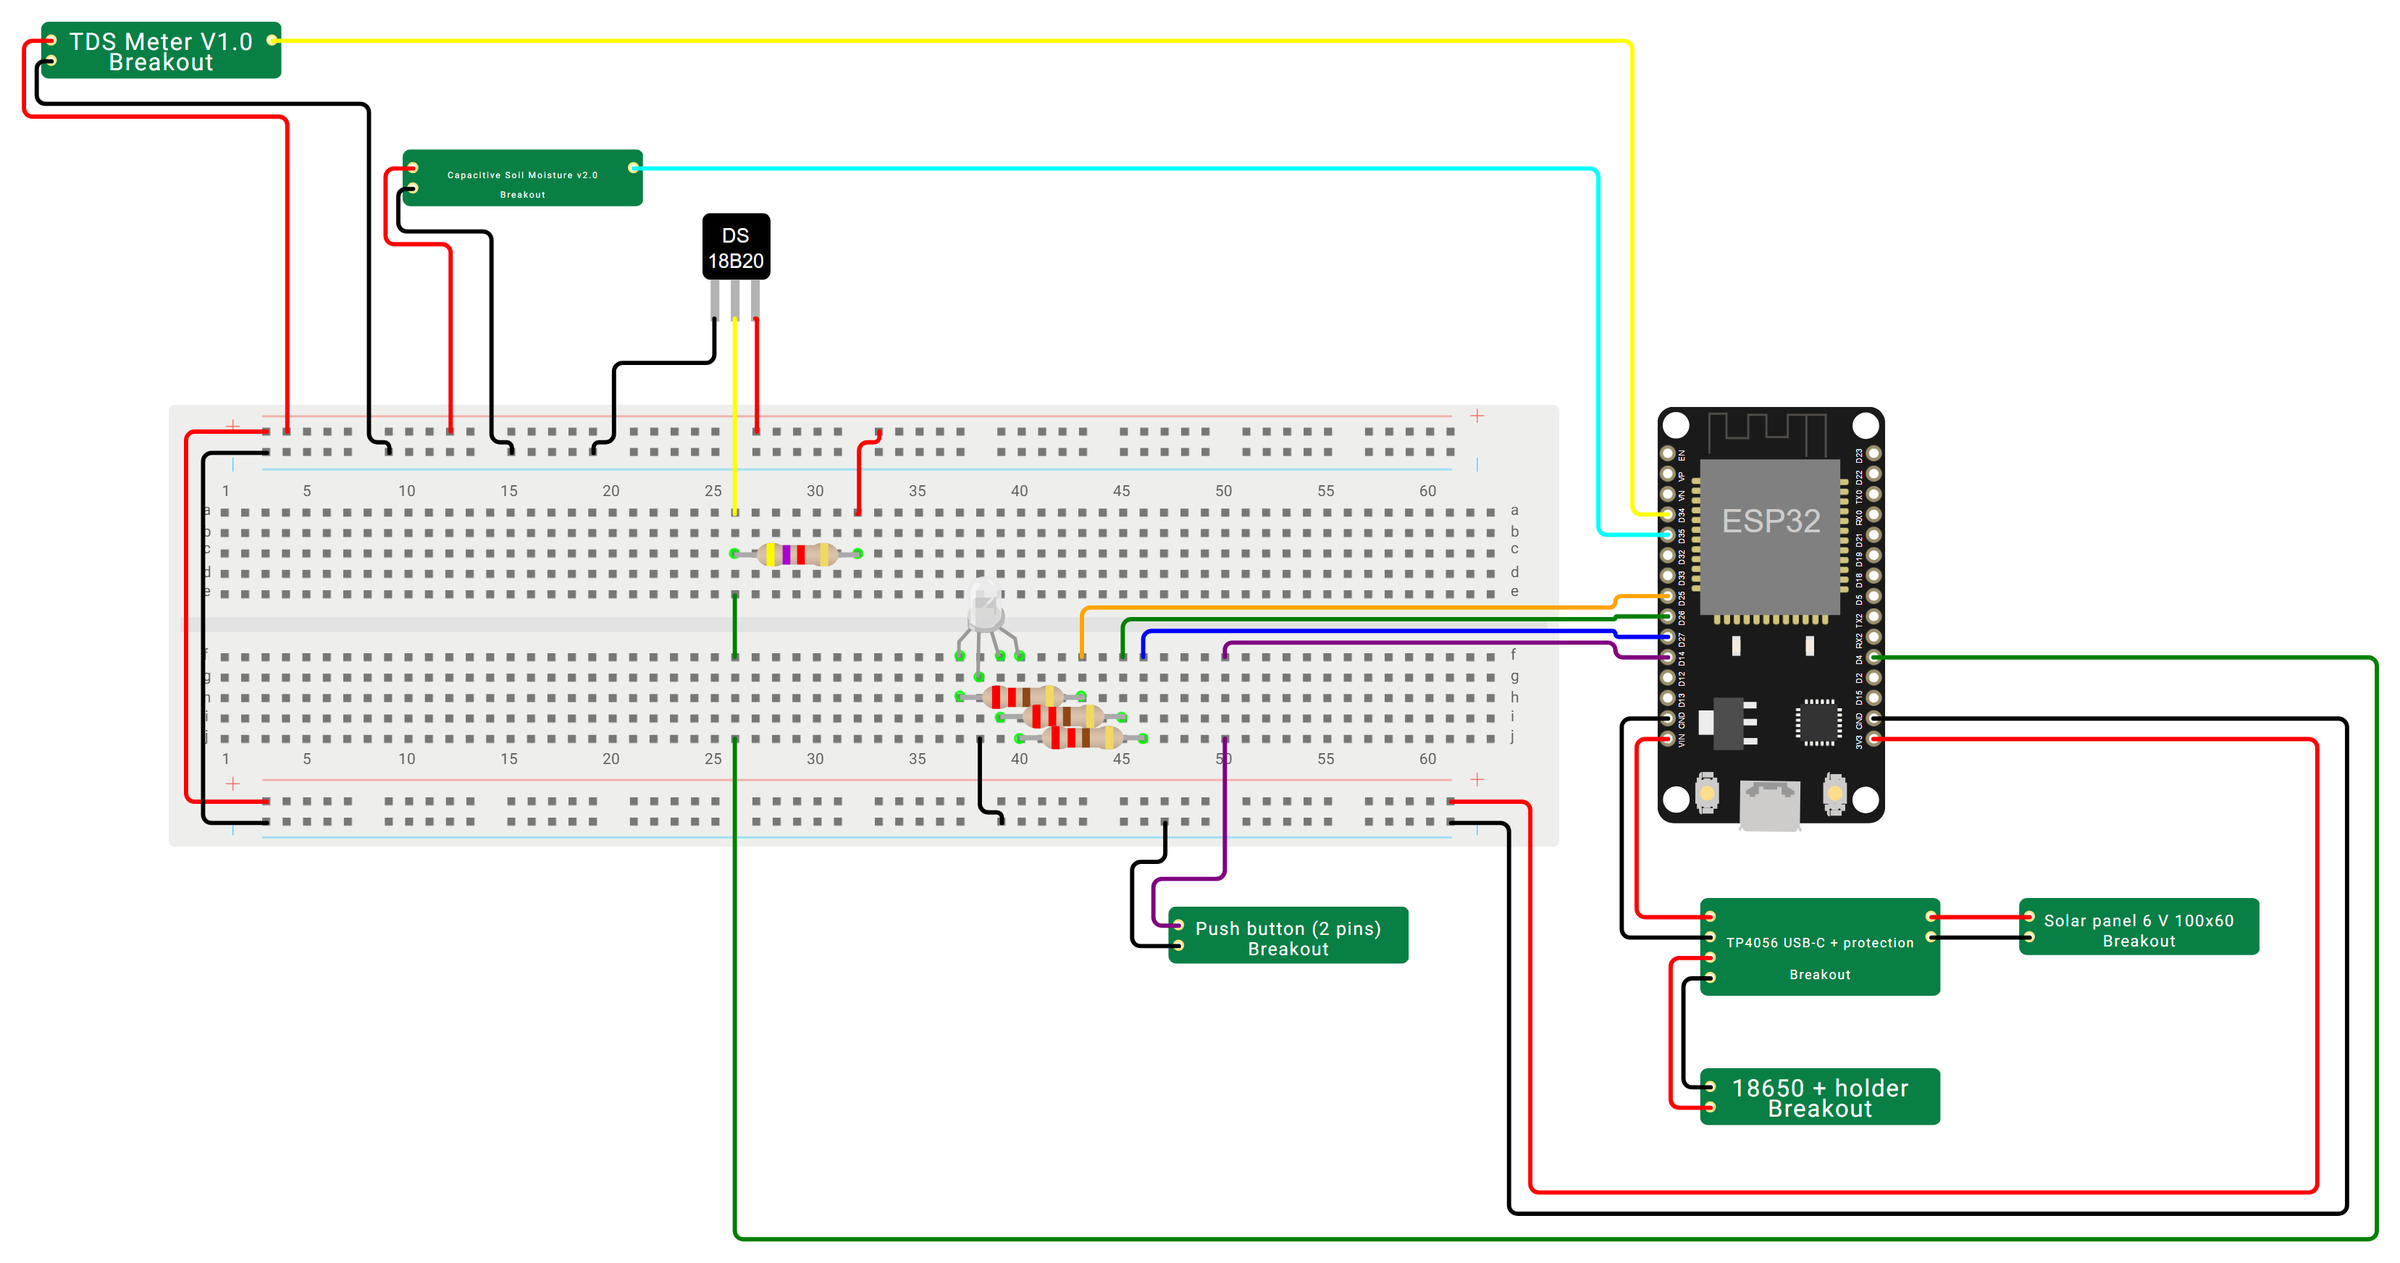
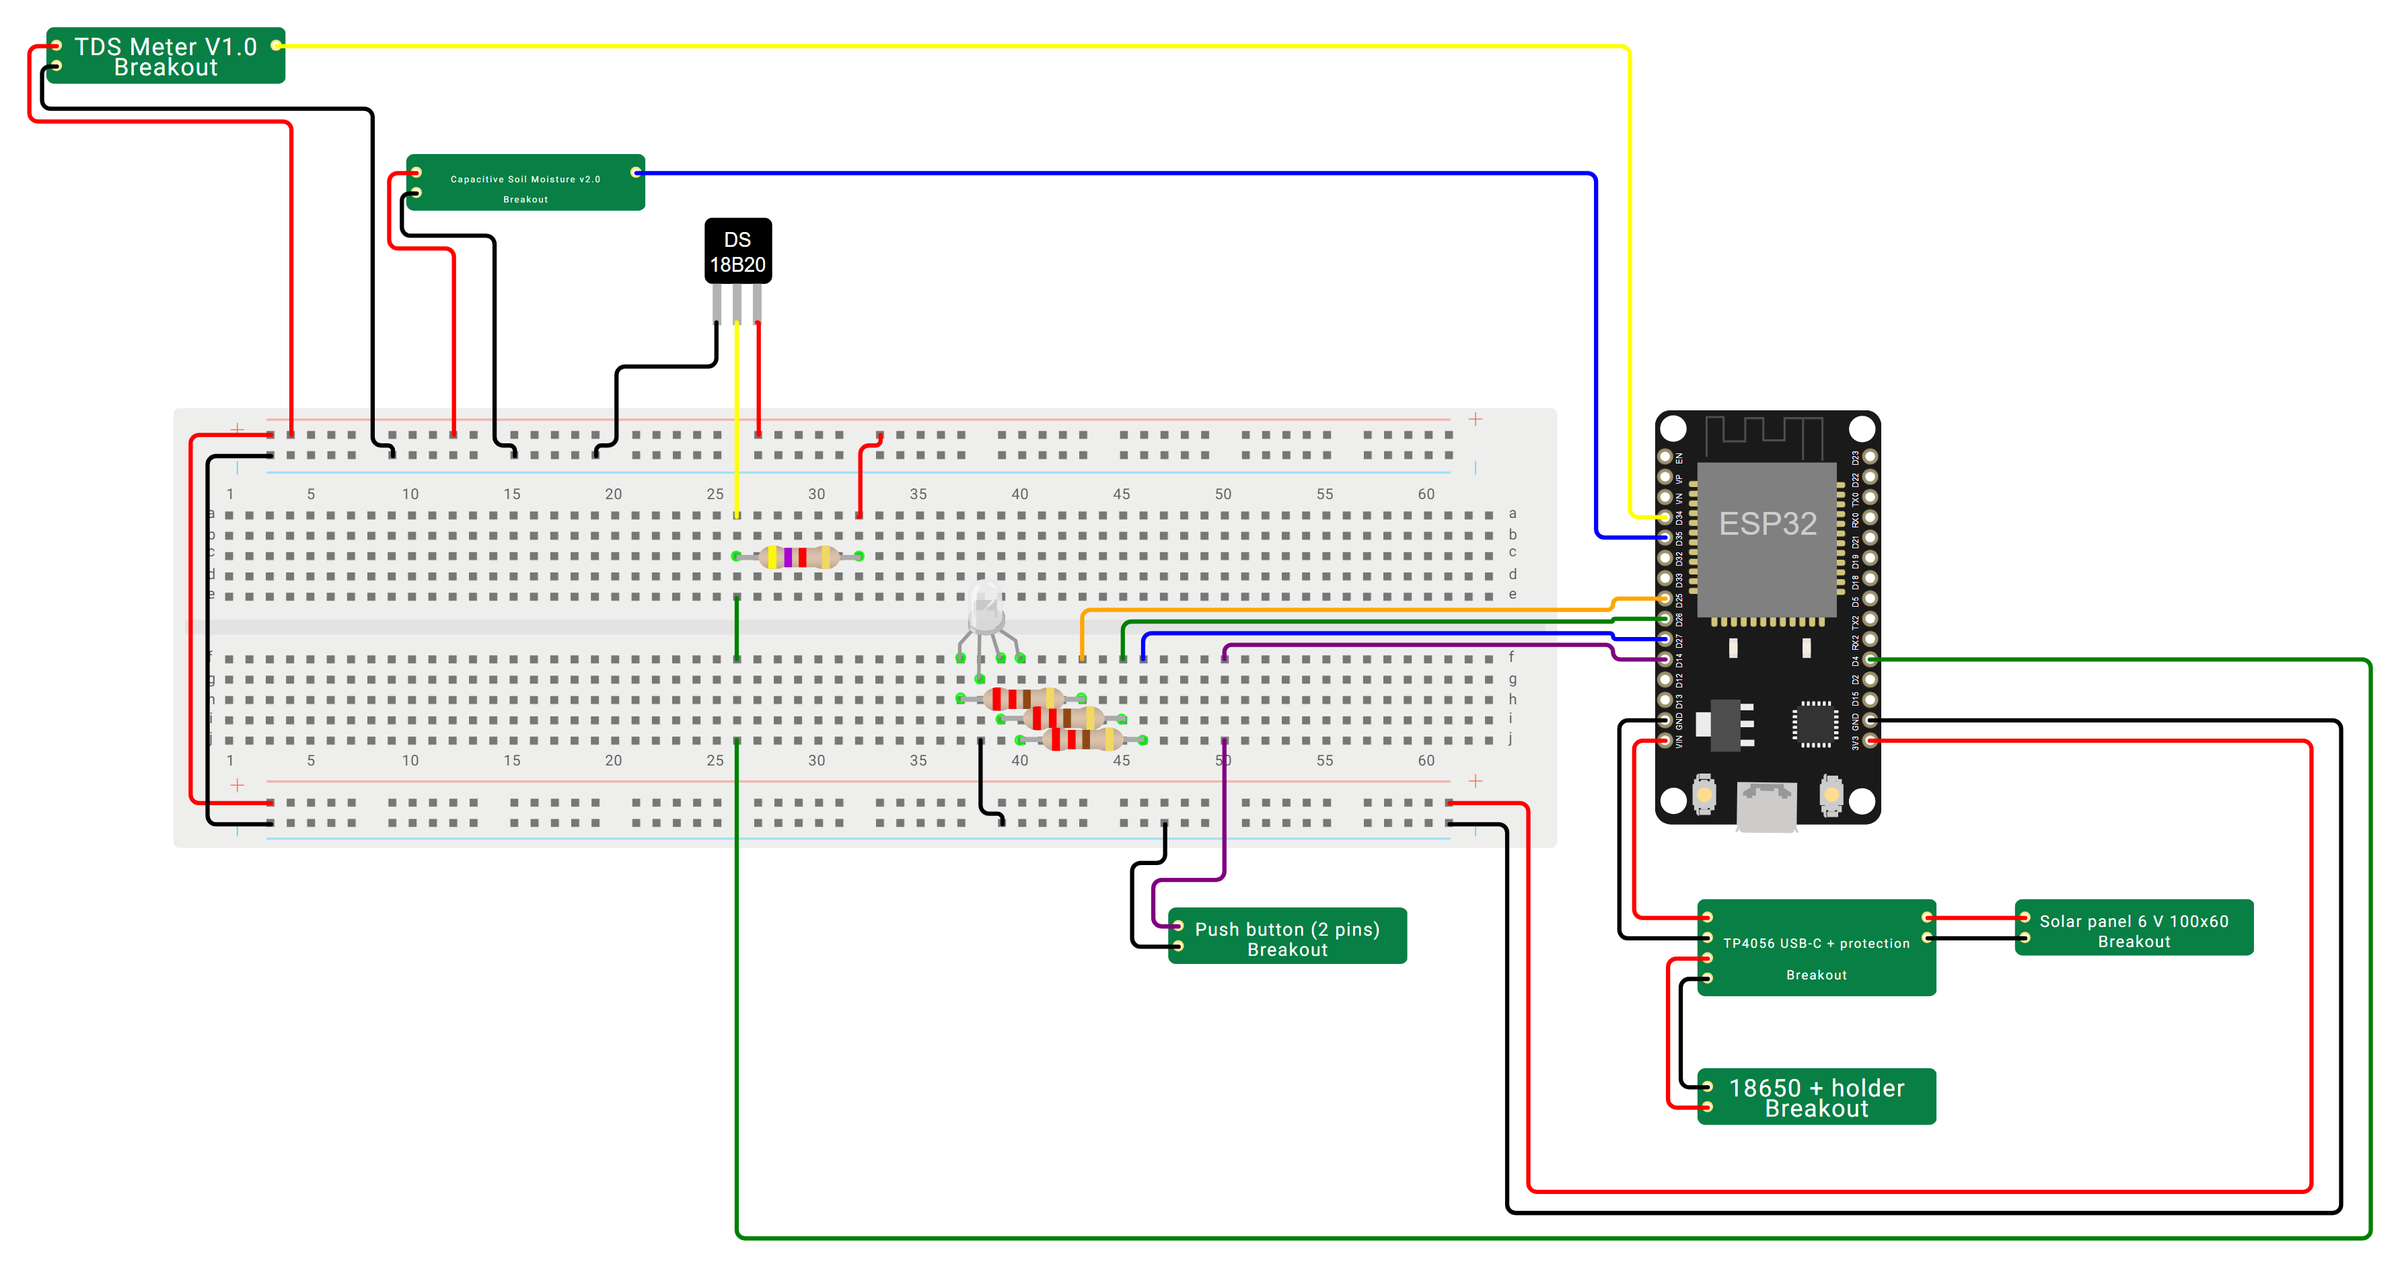
docs(chapter-5): match the wokwi circuit wires to the real assembly

Changed region(s): [[0.0, 0.0, 1.0, 0.9881]]

diff --git a/chapters/chapter5.md b/chapters/chapter5.md
@@ -1346,7 +1346,7 @@ El diagrama de bloques muestra los tres caminos del dispositivo: la **energía**
 
 **Diseño del circuito**
 
-El circuito se elaboró en **Wokwi** con las piezas compradas para el prototipo físico, sobre una protoboard de 830 puntos: ESP32 DevKit V1 (WROOM-32), sensor capacitivo de humedad v2.0, TDS Meter V1.0 con su sonda para la conductividad (medida en el extracto suelo:agua 1:2), sonda DS18B20 sumergible con su resistencia de 4,7 kΩ, LED RGB de cátodo común con tres resistencias de 220 Ω, pulsador de dos patas y la cadena de energía (panel solar de 6 V de 100 × 60 mm, cargador TP4056 con protección y batería 18650 en su porta-batería). Wokwi no trae esos sensores, el pulsador de dos patas ni las piezas de energía, así que se crearon como *custom chips*. Los dos sensores analógicos entregan la misma curva de voltaje que el módulo real y el pulsador cierra su pin a GND; los tres se manejan con un control deslizante durante la simulación. Las piezas de energía solo se dibujan, porque Wokwi siempre alimenta la placa. Cada cable une dos puntos: las conexiones compartidas se hacen en las filas y los rieles de la protoboard.
+El circuito se elaboró en **Wokwi** con las piezas compradas para el prototipo físico, sobre una protoboard de 830 puntos: ESP32 DevKit V1 (WROOM-32), sensor capacitivo de humedad v2.0, TDS Meter V1.0 con su sonda para la conductividad (medida en el extracto suelo:agua 1:2), sonda DS18B20 sumergible con su resistencia de 4,7 kΩ, LED RGB de cátodo común con tres resistencias de 220 Ω, pulsador de dos patas y la cadena de energía (panel solar de 6 V de 100 × 60 mm, cargador TP4056 con protección y batería 18650 en su porta-batería). Wokwi no trae esos sensores, el pulsador de dos patas ni las piezas de energía, así que se crearon como *custom chips*. Los dos sensores analógicos entregan la misma curva de voltaje que el módulo real y el pulsador cierra su pin a GND; los tres se manejan con un control deslizante durante la simulación. Las piezas de energía solo se dibujan, porque Wokwi siempre alimenta la placa. Cada cable une dos puntos: las conexiones compartidas se hacen en las filas y los rieles de la protoboard. Los cables de señal usan los mismos pines y colores que el armado del prototipo físico: amarillo para la conductividad (GPIO 34), azul para la humedad (GPIO 35), naranja, verde y azul para el LED RGB (GPIO 25, 26 y 27) y morado para el pulsador (GPIO 14).
 
 <div align="center">
 <img src="../assets/iot-device/iot-circuito-wokwi.png" alt="Circuito en Wokwi con ESP32 DevKit V1, protoboard de 830 puntos, sensores de humedad y TDS, DS18B20, LED RGB, pulsador de dos patas, TP4056, batería 18650 y panel solar" width="800">
